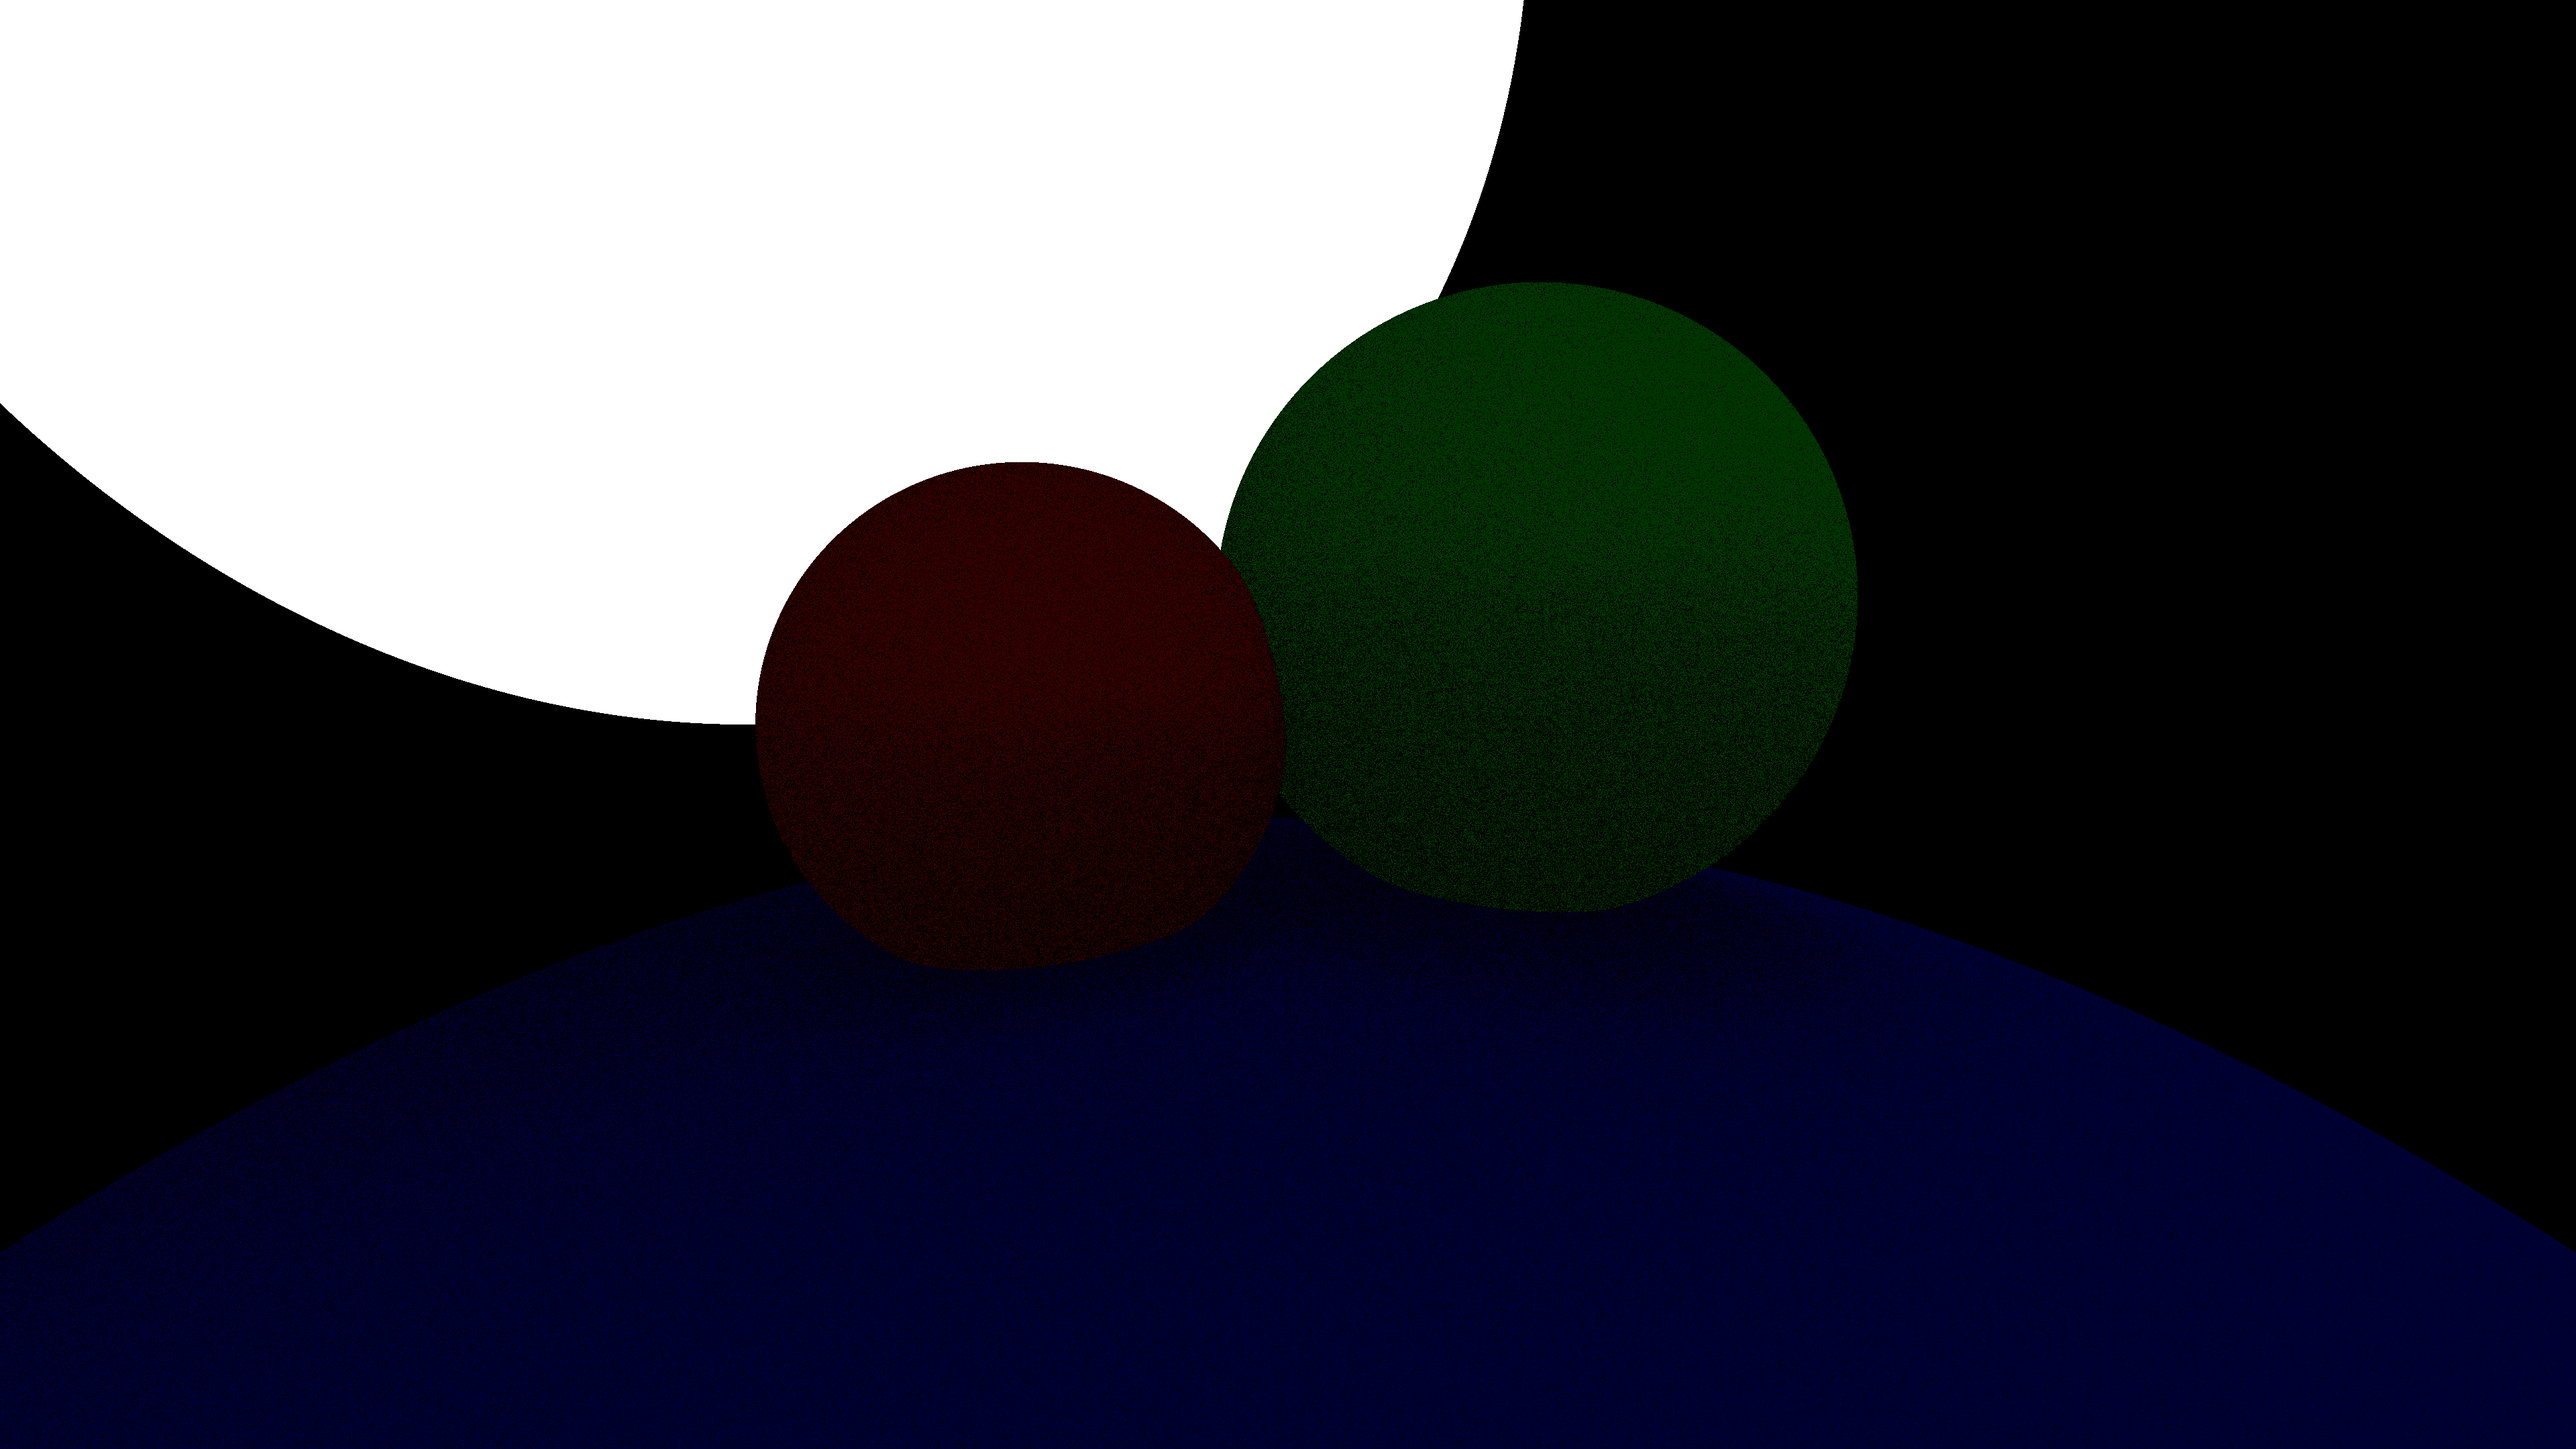
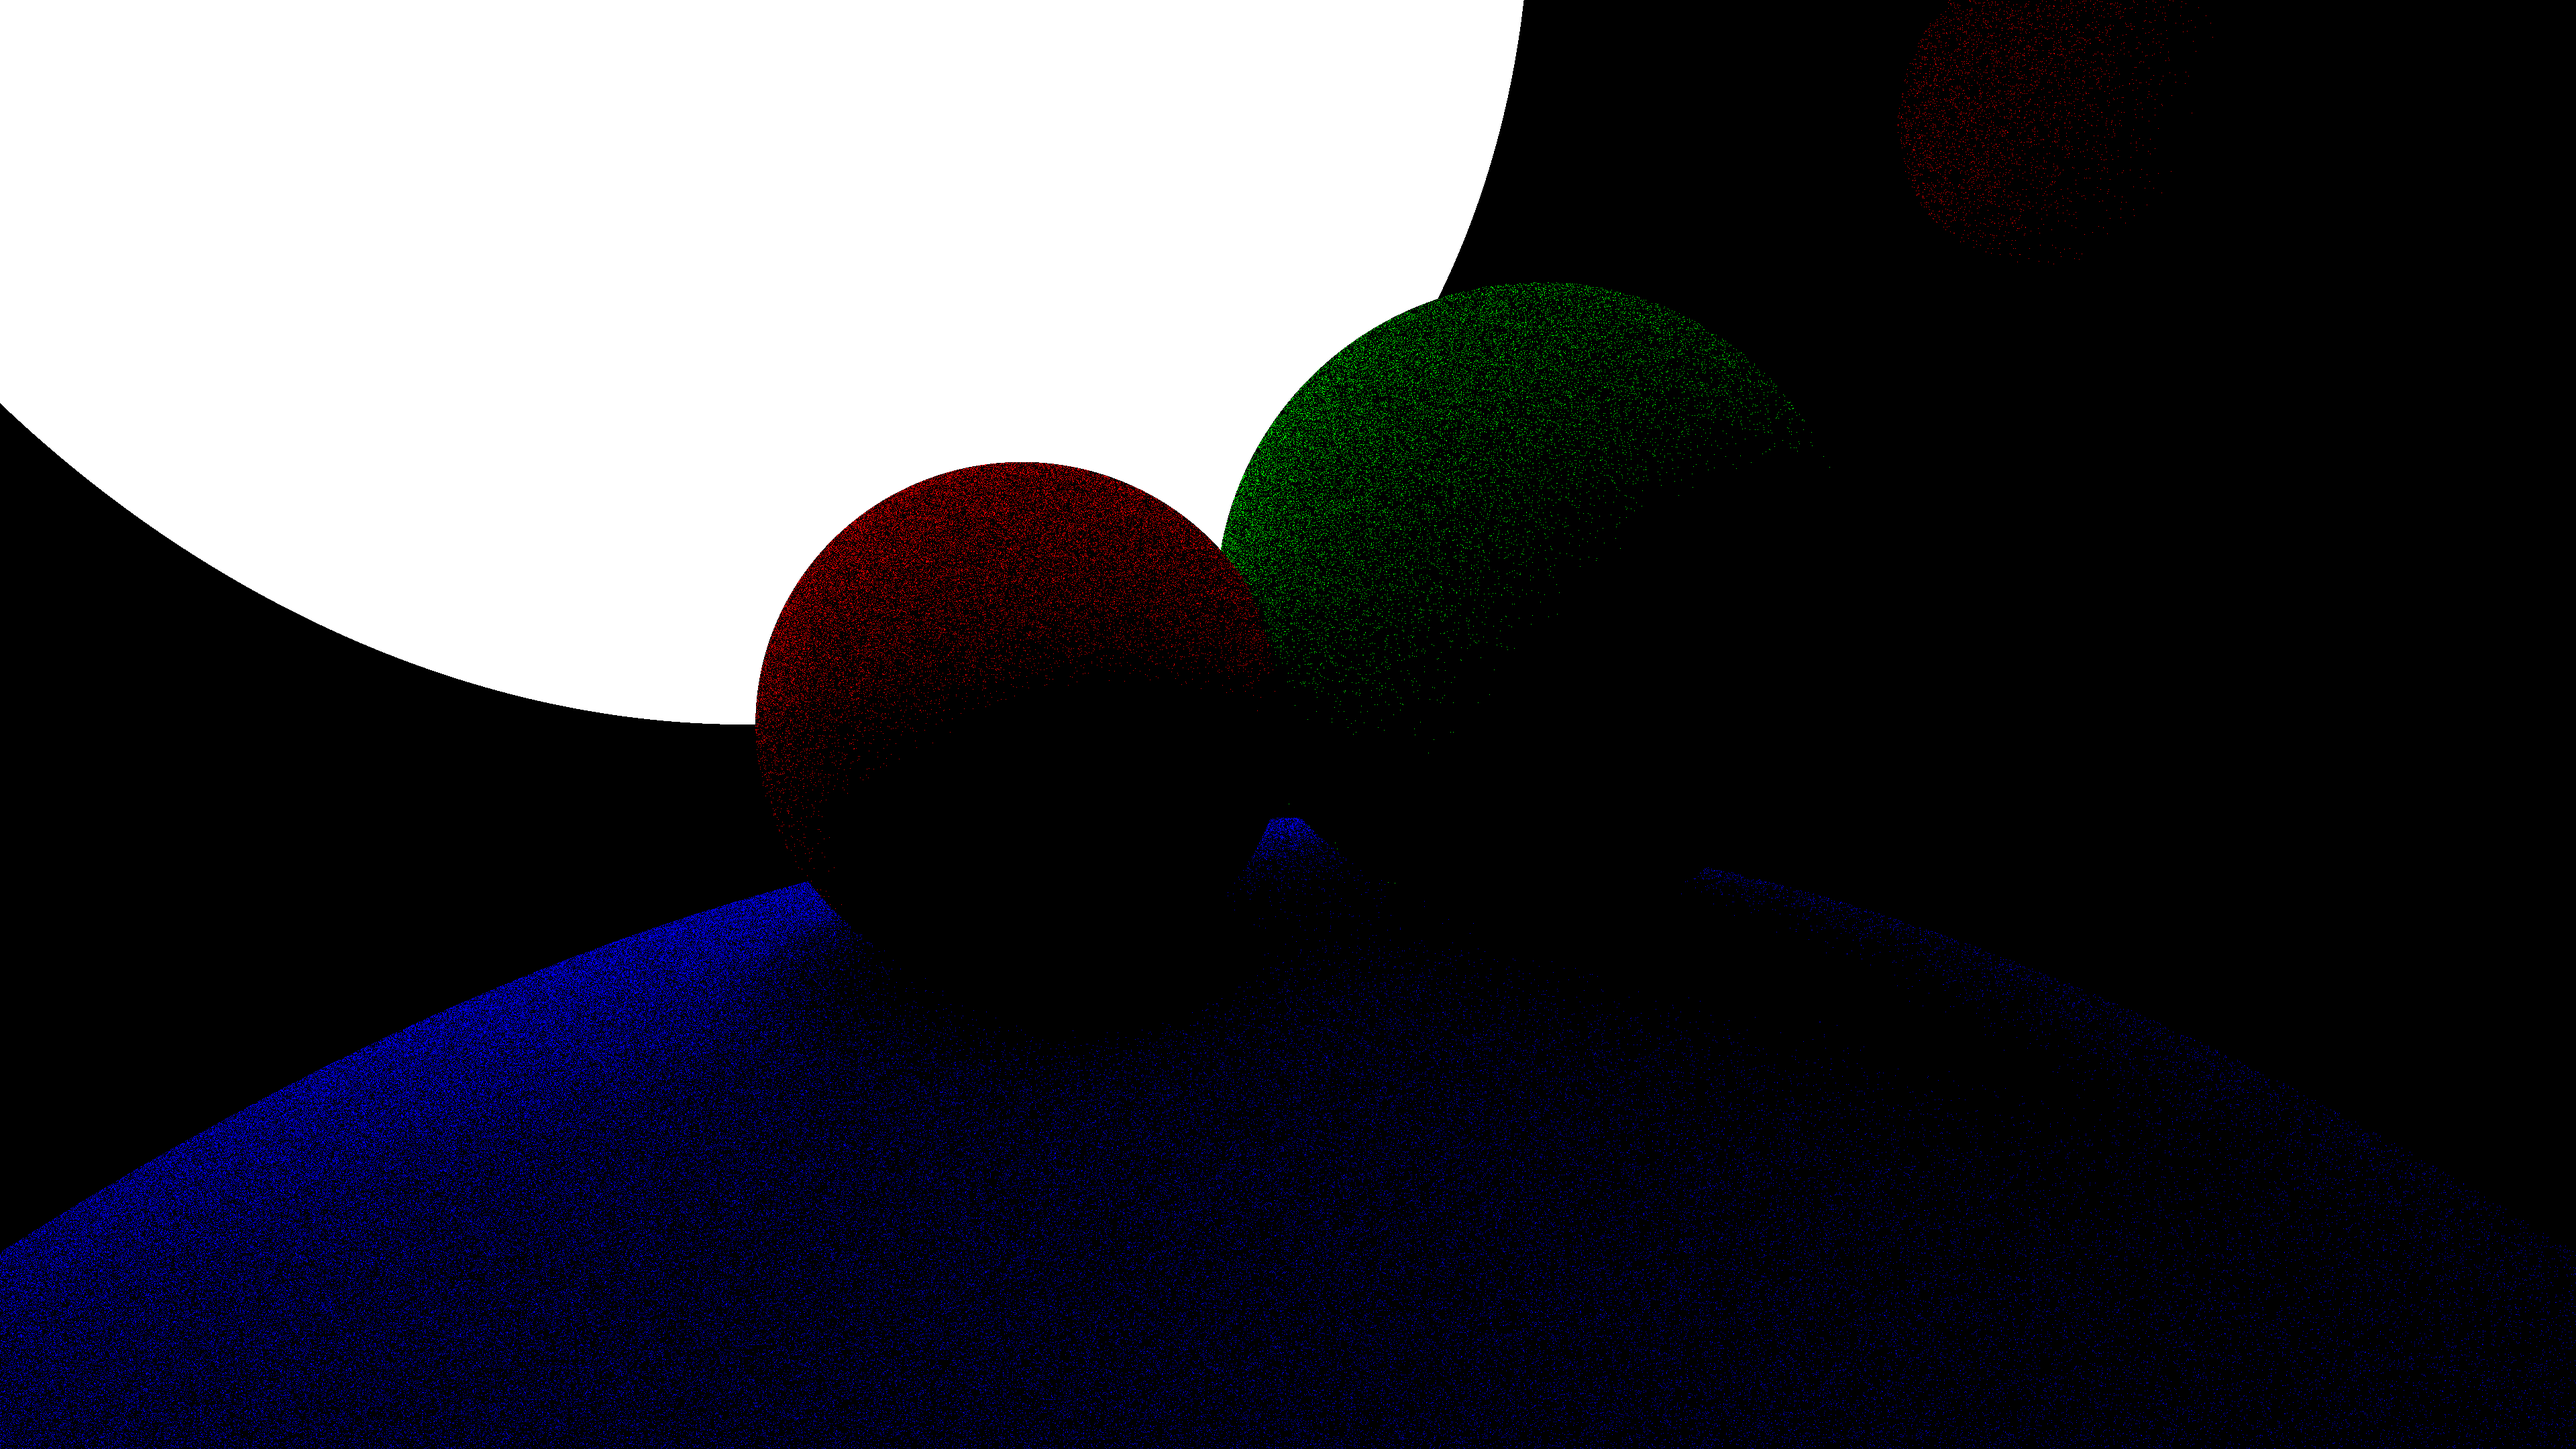
fix(colors): fix operators overflow operations

diff --git a/common/types/graphics/Color.cpp b/common/types/graphics/Color.cpp
@@ -45,14 +45,11 @@ Graphics::Color Graphics::Color::operator*(float scalar) const {
 Graphics::Color Graphics::Color::operator*(Graphics::Color &other) const {
     Color result;
 
-    result.r = this->r * other.r;
-    result.g = this->g * other.g;
-    result.b = this->b * other.b;
+    result.r = this->r * other.r > 255 ? 255 : this->r * other.r;
+    result.g = this->g * other.g > 255 ? 255 : this->g * other.g;
+    result.b = this->b * other.b > 255 ? 255 : this->b * other.b;
     result.a = this->a;
 
-    if (result.r > 255) result.r = 255;
-    if (result.g > 255) result.g = 255;
-    if (result.b > 255) result.b = 255;
     return result;
 }
 
@@ -64,14 +61,10 @@ Graphics::Color &Graphics::Color::operator*=(Graphics::Color &other) {
 Graphics::Color Graphics::Color::operator+(Graphics::Color &other) const {
     Color result;
 
-    result.r = this->r + other.r;
-    result.g = this->g + other.g;
-    result.b = this->b + other.b;
+    result.r = this->r + other.r > 255 ? 255 : this->r + other.r;
+    result.g = this->g + other.g > 255 ? 255 : this->g + other.g;
+    result.b = this->b + other.b > 255 ? 255 : this->b + other.b;
     result.a = this->a;
-
-    if (result.r > 255) result.r = 255;
-    if (result.g > 255) result.g = 255;
-    if (result.b > 255) result.b = 255;
 
     return result;
 }

diff --git a/core/types/rendering/Camera.cpp b/core/types/rendering/Camera.cpp
@@ -91,7 +91,7 @@ Graphics::Color Camera::_getIncomingLight(Math::Ray &ray, unsigned int rngState,
     Common::Graphics::Color incomingLight(0, 0, 0);
     Common::Graphics::Color rayColour(1, 1, 1);
 
-    for (int i = 0; i <= 30; i++) {
+    for (int i = 0; i <= 15; i++) {
         auto hitConfig = this->_computeRayCollision(ray, objects);
         if (hitConfig.didHit) {
             ray.origin = hitConfig.hitPoint;
@@ -103,7 +103,7 @@ Graphics::Color Camera::_getIncomingLight(Math::Ray &ray, unsigned int rngState,
             incomingLight += localIncomingLight;
             rayColour *= hitConfig.hitColor.color;
         } else {
-            Common::Graphics::Color ambientLight = rayColour * 0.2f;
+            Common::Graphics::Color ambientLight = rayColour * 0.0f;
             incomingLight += ambientLight;
 
             break;

diff --git a/core/app/cli/Handler.cpp b/core/app/cli/Handler.cpp
@@ -67,6 +67,8 @@ int Handler::run() {
     objects.push_back(objectProvider()->create(purple, Common::Math::Point3D(0, 80, -75), 100.0f));
     objects.push_back(objectProvider()->create(green, Common::Math::Point3D(10, 65, 35), 13.0f));
     objects.push_back(objectProvider()->create(red, Common::Math::Point3D(-10, 60, 30), 10.0f));
+    objects.push_back(objectProvider()->create(red, Common::Math::Point3D(50, 100, 70), 10.0f));
+
 
     camera.compute(COMPUTE_THREADS, objects);
 
